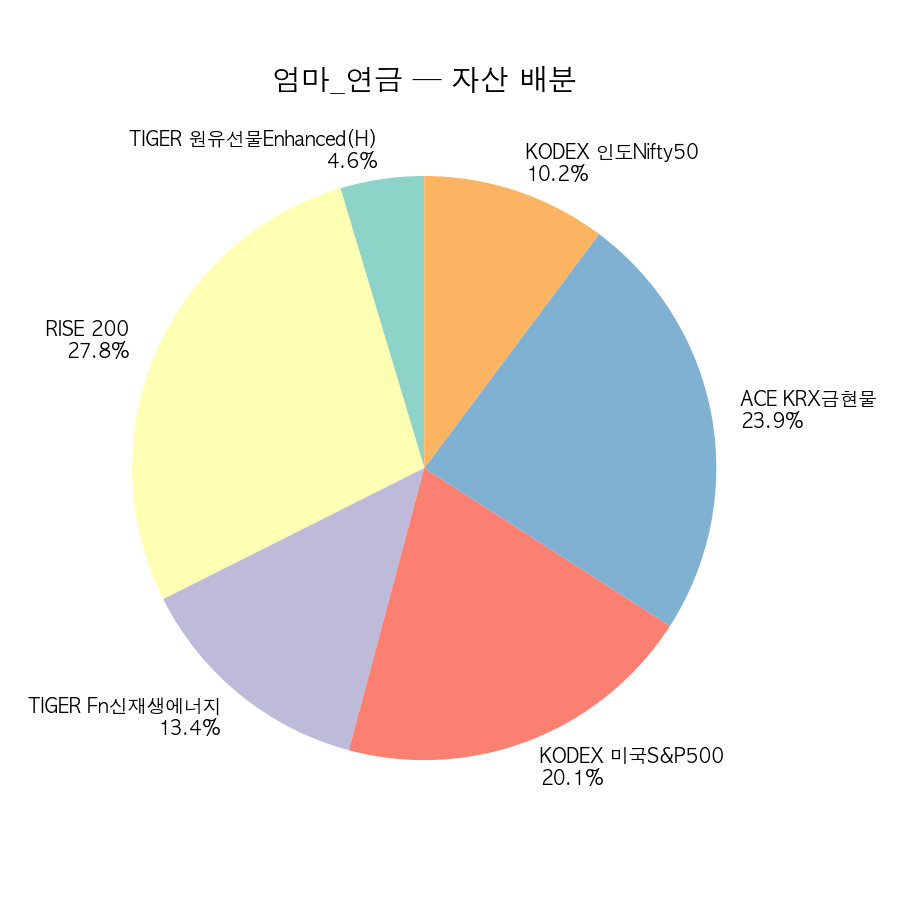
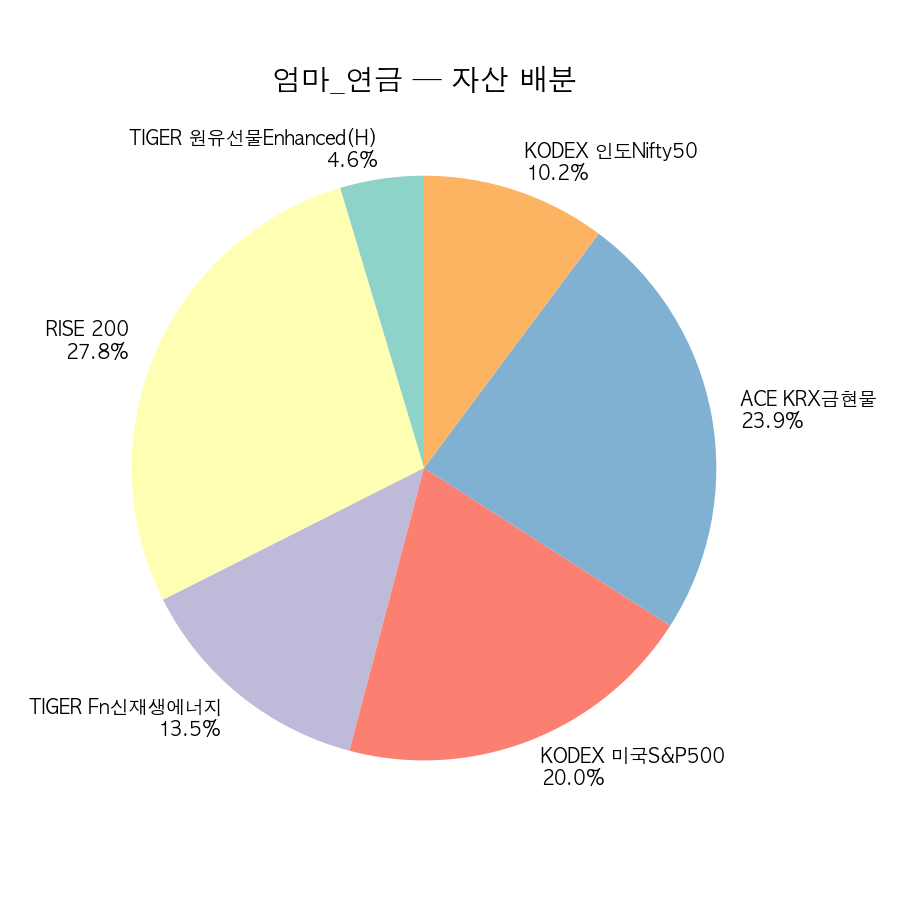
Week 3 포트폴리오 주간 리포트 (자동 생성)

diff --git a/_posts/2026-04-17-week3-portfolio-report.md b/_posts/2026-04-17-week3-portfolio-report.md
@@ -11,7 +11,7 @@ categories: [investing, portfolio]
 
 ## 전체 요약
 
-**총 평가: ₩30,521,200** | 총 매입: ₩15,435,730 | 손익: +15,085,470원 (+97.7%)
+**총 평가: ₩30,542,891** | 총 매입: ₩15,435,730 | 손익: +15,107,161원 (+97.9%)
 
 ![전체 계좌 요약](/blog/assets/charts/summary_all.png)
 
@@ -21,72 +21,68 @@ categories: [investing, portfolio]
 
 | 종목 | 수량 | 매입금액 | 평가금액 | 수익률 |
 |------|------|----------|----------|--------|
-| 빙그레 | 21주 | ₩1,562,850 | ₩1,591,800 | +1.9% |
-| KT&G | 9주 | ₩1,506,400 | ₩1,538,100 | +2.1% |
+| 빙그레 | 21주 | ₩1,562,850 | ₩1,596,000 | +2.1% |
+| KT&G | 9주 | ₩1,506,400 | ₩1,539,900 | +2.2% |
 | 고려신용정보 | 148주 | ₩1,524,590 | ₩1,530,320 | +0.4% |
-| 삼성화재우 | 4주 | ₩1,501,000 | ₩1,486,000 | -1.0% |
-| KODEX 고배당주 | 76주 | ₩1,370,110 | ₩1,408,280 | +2.8% |
+| 삼성화재우 | 4주 | ₩1,501,000 | ₩1,494,000 | -0.5% |
+| KODEX 고배당주 | 76주 | ₩1,370,110 | ₩1,410,180 | +2.9% |
 
-**매입 ₩7,464,950 → 평가 ₩14,665,252 (예수금 ₩7,110,752 포함) | +89,550원 (+1.2%)**
+**매입 ₩7,464,950 → 평가 ₩14,681,152 (예수금 ₩7,110,752 포함) | +105,450원 (+1.4%)**
 ---
 
 ### 엄마_연금
 
 | 종목 | 수량 | 매입금액 | 평가금액 | 수익률 |
 |------|------|----------|----------|--------|
-| RISE 200 | 9주 | ₩721,463 | ₩851,715 | +18.1% |
-| ACE KRX금현물 | 23주 | ₩736,920 | ₩732,435 | -0.6% |
-| KODEX 미국S&P500 | 26주 | ₩581,815 | ₩615,290 | +5.8% |
-| TIGER Fn신재생에너지 | 14주 | ₩353,150 | ₩412,020 | +16.7% |
-| KODEX 인도Nifty50 | 24주 | ₩299,820 | ₩313,080 | +4.4% |
+| RISE 200 | 9주 | ₩721,463 | ₩853,470 | +18.3% |
+| ACE KRX금현물 | 23주 | ₩736,920 | ₩732,366 | -0.6% |
+| KODEX 미국S&P500 | 26주 | ₩581,815 | ₩615,160 | +5.7% |
+| TIGER Fn신재생에너지 | 14주 | ₩353,150 | ₩412,790 | +16.9% |
+| KODEX 인도Nifty50 | 24주 | ₩299,820 | ₩312,840 | +4.3% |
 | TIGER 원유선물Enhanced(H) | 21주 | ₩143,325 | ₩142,170 | -0.8% |
 
-**매입 ₩2,836,493 → 평가 ₩6,825,182 (예수금 ₩3,758,472 포함) | +230,217원 (+8.1%)**
-
-전주 대비: +3,793,792원
+**매입 ₩2,836,493 → 평가 ₩6,827,268 (예수금 ₩3,758,472 포함) | +232,303원 (+8.2%)**
 ---
 
 ### 아빠_연금
 
 | 종목 | 수량 | 매입금액 | 평가금액 | 수익률 |
 |------|------|----------|----------|--------|
-| RISE 200 | 9주 | ₩721,485 | ₩851,715 | +18.1% |
-| ACE KRX금현물 | 23주 | ₩736,978 | ₩732,435 | -0.6% |
-| KODEX 미국S&P500 | 26주 | ₩581,750 | ₩615,290 | +5.8% |
-| TIGER Fn신재생에너지 | 14주 | ₩353,220 | ₩412,020 | +16.6% |
-| KODEX 인도Nifty50 | 24주 | ₩300,120 | ₩313,080 | +4.3% |
+| RISE 200 | 9주 | ₩721,485 | ₩853,470 | +18.3% |
+| ACE KRX금현물 | 23주 | ₩736,978 | ₩732,320 | -0.6% |
+| KODEX 미국S&P500 | 26주 | ₩581,750 | ₩615,160 | +5.7% |
+| TIGER Fn신재생에너지 | 14주 | ₩353,220 | ₩413,000 | +16.9% |
+| KODEX 인도Nifty50 | 24주 | ₩300,120 | ₩312,840 | +4.2% |
 | TIGER 원유선물Enhanced(H) | 21주 | ₩143,010 | ₩142,170 | -0.6% |
-| ACE TDF2030액티브 적격 | 3주 | ₩33,345 | ₩33,810 | +1.4% |
-| PLUS 고배당주 | 1주 | ₩25,370 | ₩27,530 | +8.5% |
+| ACE TDF2030액티브 적격 | 3주 | ₩33,345 | ₩34,005 | +2.0% |
+| PLUS 고배당주 | 1주 | ₩25,370 | ₩27,555 | +8.6% |
 
-**매입 ₩2,895,278 → 평가 ₩6,238,100 (예수금 ₩3,110,050 포함) | +232,772원 (+8.0%)**
-
-전주 대비: +3,145,870원
+**매입 ₩2,895,278 → 평가 ₩6,240,570 (예수금 ₩3,110,050 포함) | +235,242원 (+8.1%)**
 ---
 
 ### 내_연금
 
 | 종목 | 수량 | 매입금액 | 평가금액 | 수익률 |
 |------|------|----------|----------|--------|
-| TIGER KRX금현물 | 14주 | ₩210,800 | ₩213,080 | +1.1% |
-| 신한알파리츠 | 35주 | ₩197,970 | ₩212,450 | +7.3% |
-| KODEX 미국달러SOFR금리액티브(합성) | 16주 | ₩201,680 | ₩203,600 | +0.9% |
+| TIGER KRX금현물 | 14주 | ₩210,800 | ₩213,150 | +1.1% |
+| 신한알파리츠 | 35주 | ₩197,970 | ₩212,100 | +7.1% |
+| KODEX 미국달러SOFR금리액티브(합성) | 16주 | ₩201,680 | ₩203,680 | +1.0% |
 | TIGER 미국배당다우존스 | 13주 | ₩179,515 | ₩188,630 | +5.1% |
-| SOL 코리아고배당 | 13주 | ₩156,200 | ₩180,115 | +15.3% |
-| KODEX 인도Nifty50 | 11주 | ₩149,385 | ₩143,550 | -3.9% |
-| KODEX 미국S&P500 | 5주 | ₩113,320 | ₩118,325 | +4.4% |
-| KIWOOM 국고채30년액티브 | 1주 | ₩57,710 | ₩54,235 | -6.0% |
+| SOL 코리아고배당 | 13주 | ₩156,200 | ₩180,375 | +15.5% |
+| KODEX 인도Nifty50 | 11주 | ₩149,385 | ₩143,385 | -4.0% |
+| KODEX 미국S&P500 | 5주 | ₩113,320 | ₩118,300 | +4.4% |
+| KIWOOM 국고채30년액티브 | 1주 | ₩57,710 | ₩54,200 | -6.1% |
 
-**매입 ₩1,266,580 → 평가 ₩2,057,050 (예수금 ₩743,065 포함) | +47,405원 (+3.7%)**
+**매입 ₩1,266,580 → 평가 ₩2,056,885 (예수금 ₩743,065 포함) | +47,240원 (+3.7%)**
 ---
 
 ### 한투_위탁
 
 | 종목 | 수량 | 매입금액 | 평가금액 | 수익률 |
 |------|------|----------|----------|--------|
-| 카카오뱅크 | 7주 | ₩273,000 | ₩177,450 | -35.0% |
-| 롯데렌탈 | 4주 | ₩236,000 | ₩130,800 | -44.6% |
-| SK아이이테크놀로지 | 1주 | ₩105,000 | ₩24,200 | -77.0% |
+| 카카오뱅크 | 7주 | ₩273,000 | ₩178,150 | -34.7% |
+| 롯데렌탈 | 4주 | ₩236,000 | ₩131,400 | -44.3% |
+| SK아이이테크놀로지 | 1주 | ₩105,000 | ₩24,300 | -76.8% |
 
 **해외주식:**
 
@@ -97,7 +93,7 @@ categories: [investing, portfolio]
 | 아마존닷컴(AMZN) | 0.0242주 | ₩6,229 | ₩8,905 | +43.0% |
 | 넷플릭스(NFLX) | 0.0356주 | ₩2,488 | ₩5,644 | +126.8% |
 
-**매입 ₩972,429 → 평가 ₩735,616 (예수금 ₩5,813 포함) | -242,626원 (-25.0%)**
+**매입 ₩972,429 → 평가 ₩737,016 (예수금 ₩5,813 포함) | -241,226원 (-24.8%)**
 
 ---
 

diff --git a/_posts/2026-04-17-monthly-tearsheet-202604.md b/_posts/2026-04-17-monthly-tearsheet-202604.md
@@ -1,0 +1,41 @@
+---
+layout: post
+title: "2026-04 월간 Tearsheet"
+date: 2026-04-17
+categories: [investing, portfolio]
+---
+
+> 전 계좌 월간 성과 분석 — 자동 생성.
+
+---
+
+![월간 Tearsheet](/blog/assets/charts/monthly_tearsheet.png)
+
+---
+
+### 엄마_연금
+| 항목 | 값 |
+|------|-----|
+| 수익률 | +125.2% |
+| MDD | -0.0% |
+| 평가금액 | ₩6,827,268 |
+| 매입금액 | ₩2,836,493 |
+| 손익 | ₩+3,990,775 |
+| 배당금 | ₩0 |
+| 운용 기간 | 2일 |
+---
+
+### 아빠_연금
+| 항목 | 값 |
+|------|-----|
+| 수익률 | +101.8% |
+| MDD | -0.0% |
+| 평가금액 | ₩6,240,570 |
+| 매입금액 | ₩2,895,278 |
+| 손익 | ₩+3,345,292 |
+| 배당금 | ₩0 |
+| 운용 기간 | 2일 |
+
+---
+
+*데이터: KIS Open API / 2026-04-17 기준 — 자동 생성*
